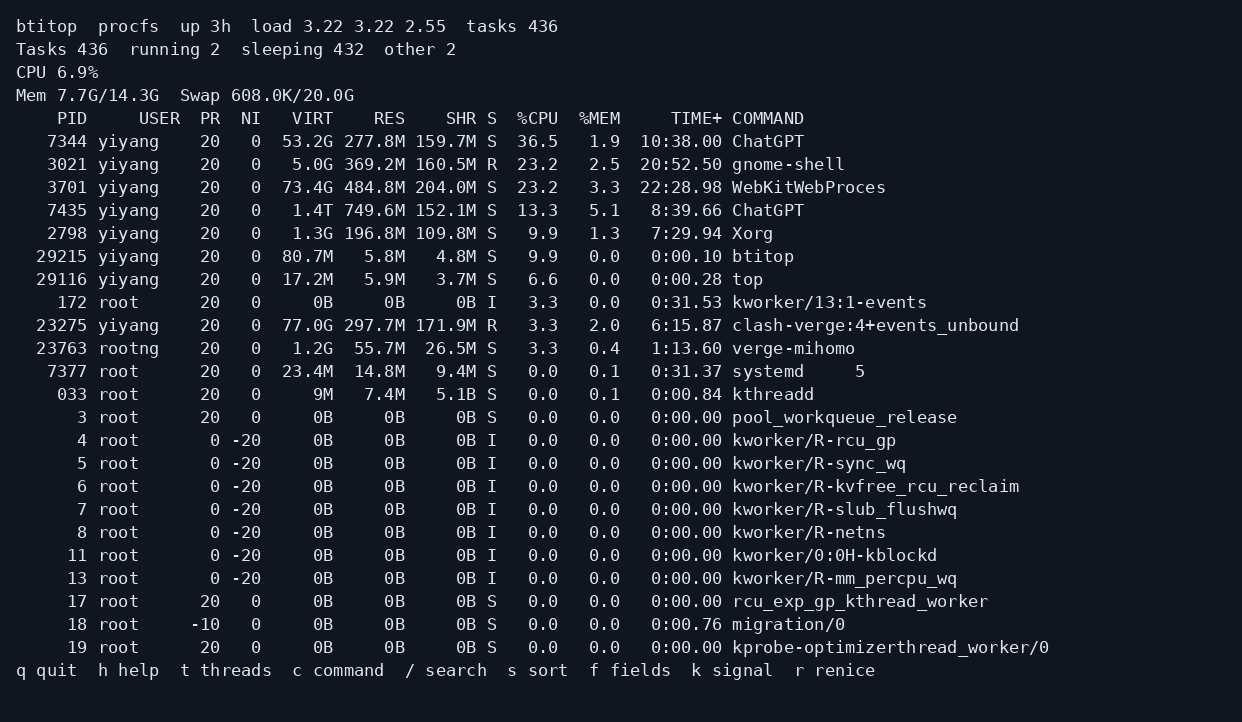
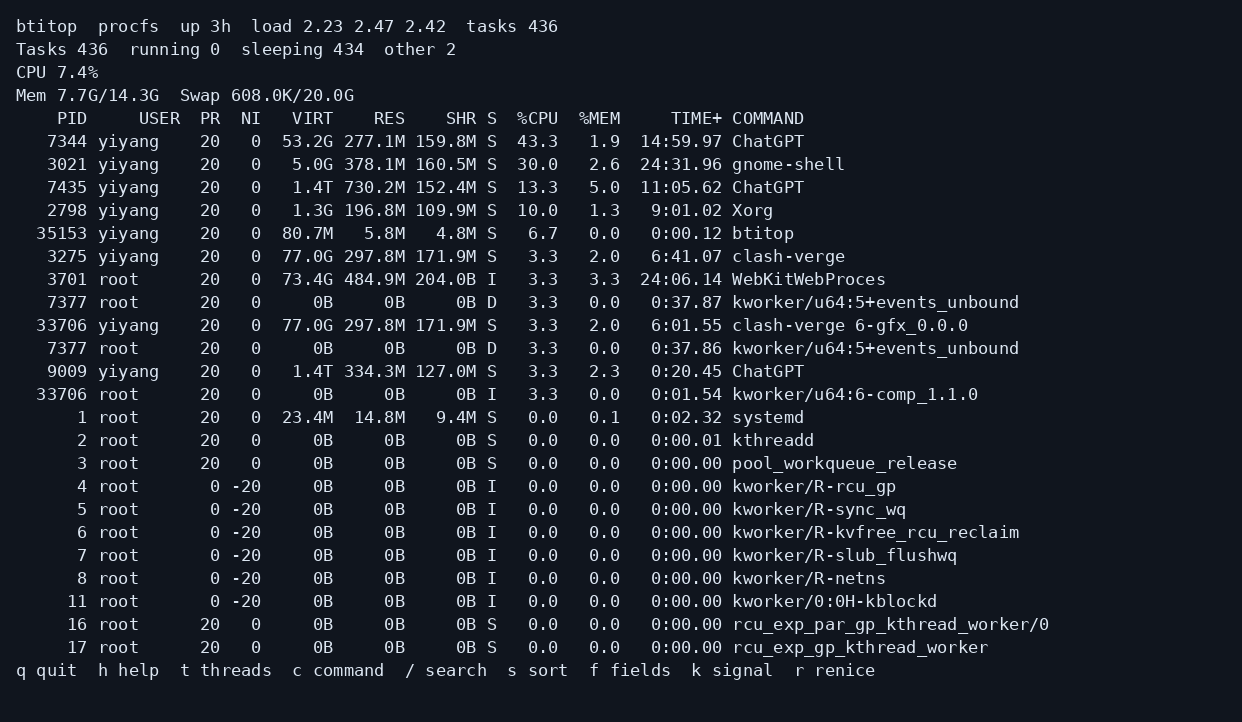
Avoid redundant TUI redraws and benchmark against top and htop

diff --git a/tools/compare_top.py b/tools/compare_top.py
@@ -1,0 +1,116 @@
+#!/usr/bin/env python3
+"""Compare btitop backends with procps top under temporary workloads.
+
+Run with BPF privileges, e.g. sudo python3 tools/compare_top.py --output /tmp/compare.json.
+All workload children are stopped in a finally block.
+"""
+import argparse
+import json
+import os
+import pathlib
+import statistics
+import subprocess
+import sys
+import tempfile
+import threading
+import time
+
+ROOT = pathlib.Path(__file__).resolve().parents[1]
+parser = argparse.ArgumentParser()
+parser.add_argument('--binary', type=pathlib.Path, default=ROOT / 'build/btitop')
+parser.add_argument('--iterations', type=int, default=15)
+parser.add_argument('--interval', type=float, default=0.1)
+parser.add_argument('--output', type=pathlib.Path)
+parser.add_argument('--cases', nargs='+', default=['baseline', 'sleep200', 'sleep500', 'threads128', 'threads128-H', 'busy4', 'churn'])
+args = parser.parse_args()
+if args.iterations < 3 or args.interval < 0.1:
+    parser.error('at least three iterations and 0.1s interval required')
+args.binary = args.binary.resolve()
+if not args.binary.exists():
+    parser.error(f'binary not found: {args.binary}')
+
+class Workload:
+    def __init__(self, case):
+        self.case = case
+        self.children = []
+        self.stop = threading.Event()
+        self.thread = None
+    def __enter__(self):
+        if self.case.startswith('sleep'):
+            for _ in range(int(self.case.removeprefix('sleep'))):
+                self.children.append(subprocess.Popen(['sleep', '120'], stdout=subprocess.DEVNULL, stderr=subprocess.DEVNULL))
+        elif self.case.startswith('threads'):
+            count = int(self.case.removeprefix('threads').split('-')[0])
+            code = 'import threading,time,sys\nthreads=[threading.Thread(target=time.sleep,args=(120,),daemon=True) for _ in range(int(sys.argv[1]))]\n[t.start() for t in threads]\ntime.sleep(120)'
+            self.children.append(subprocess.Popen([sys.executable, '-c', code, str(count)], stdout=subprocess.DEVNULL, stderr=subprocess.DEVNULL))
+        elif self.case.startswith('busy'):
+            for _ in range(int(self.case.removeprefix('busy'))):
+                self.children.append(subprocess.Popen(['yes'], stdout=subprocess.DEVNULL, stderr=subprocess.DEVNULL))
+        elif self.case == 'churn':
+            def churn():
+                while not self.stop.is_set():
+                    proc = subprocess.Popen(['sleep', '0.02'], stdout=subprocess.DEVNULL, stderr=subprocess.DEVNULL)
+                    proc.wait()
+            self.thread = threading.Thread(target=churn, daemon=True)
+            self.thread.start()
+        elif self.case != 'baseline':
+            raise ValueError(f'unknown case: {self.case}')
+        time.sleep(0.25)
+        return self
+    def __exit__(self, *_):
+        self.stop.set()
+        if self.thread:
+            self.thread.join(timeout=2)
+        for child in self.children:
+            if child.poll() is None:
+                child.terminate()
+        for child in self.children:
+            child.wait()
+
+def command(name, case, json_mode=False):
+    thread_mode = case.endswith('-H')
+    if name == 'top':
+        return ['top', '-b', '-n', str(args.iterations), '-d', str(args.interval), '-w', '120'] + (['-H'] if thread_mode else [])
+    cmd = [str(args.binary), '--backend', name, '--iterations', str(args.iterations), '--interval', str(args.interval)]
+    cmd += ['--json' if json_mode else '--batch']
+    if thread_mode:
+        cmd.append('--threads')
+    return cmd
+
+def timed(cmd, env):
+    with tempfile.TemporaryDirectory() as tmp:
+        metric = pathlib.Path(tmp) / 'metric'
+        result = subprocess.run(['/usr/bin/time', '-f', '%U %S %M %e', '-o', str(metric), *cmd],
+                                stdout=subprocess.DEVNULL, stderr=subprocess.PIPE, text=True, env=env, timeout=120)
+        if result.returncode:
+            raise RuntimeError(f'{cmd[0]} exited {result.returncode}: {result.stderr[-500:]}')
+        user, system, rss, wall = map(float, metric.read_text().split())
+        return {'cpu_seconds': round(user + system, 4), 'user_seconds': user,
+                'system_seconds': system, 'peak_rss_kib': int(rss), 'wall_seconds': wall}
+
+def latency(cmd, env):
+    result = subprocess.run(cmd, capture_output=True, text=True, env=env, timeout=120)
+    if result.returncode:
+        raise RuntimeError(result.stderr[-500:])
+    frames = [json.loads(line) for line in result.stdout.splitlines()]
+    ms = sorted((x['end_monotonic_ns'] - x['begin_monotonic_ns']) / 1e6 for x in frames)
+    return {'tasks_median': int(statistics.median(len(x['tasks']) for x in frames)),
+            'sample_ms_p50': round(statistics.median(ms), 3),
+            'sample_ms_p95': round(ms[min(len(ms) - 1, int((len(ms) - 1) * .95))], 3)}
+
+results = []
+env = dict(os.environ, XDG_CONFIG_HOME='/nonexistent/btitop-benchmark-config', LC_ALL='C')
+for case in args.cases:
+    print(f'CASE {case}', flush=True)
+    with Workload(case):
+        runs = {}
+        for name in ('bpf', 'procfs', 'top'):
+            runs[name] = timed(command(name, case), env)
+            if name != 'top':
+                runs[name].update(latency(command(name, case, True), env))
+            print(name, json.dumps(runs[name]), flush=True)
+        results.append({'case': case, 'runs': runs})
+if args.output:
+    args.output.parent.mkdir(parents=True, exist_ok=True)
+    args.output.write_text(json.dumps({'kernel': os.uname().release, 'iterations': args.iterations,
+                                       'interval_seconds': args.interval, 'results': results}, indent=2) + '\n')

diff --git a/tools/compare_interactive.py b/tools/compare_interactive.py
@@ -1,0 +1,92 @@
+#!/usr/bin/env python3
+"""Measure two real TUI sessions for the same wall time on a pseudo-terminal."""
+import argparse
+import fcntl
+import json
+import os
+import pathlib
+import pty
+import select
+import signal
+import struct
+import subprocess
+import tempfile
+import termios
+import time
+
+root = pathlib.Path(__file__).resolve().parents[1]
+p = argparse.ArgumentParser()
+p.add_argument('--seconds', type=float, default=10)
+p.add_argument('--interval', type=float, default=1)
+p.add_argument('--spawn', type=int, default=0)
+p.add_argument('--repeat', type=int, default=1)
+p.add_argument('--apps', nargs='+', choices=['btitop','top','htop'], default=['btitop','top'])
+p.add_argument('--output', type=pathlib.Path)
+args = p.parse_args()
+workload = []
+results = []
+
+def run(name):
+    master, slave = pty.openpty()
+    fcntl.ioctl(slave, termios.TIOCSWINSZ, struct.pack('HHHH', 30, 110, 0, 0))
+    env = dict(os.environ, TERM='xterm-256color', XDG_CONFIG_HOME='/nonexistent/btitop-benchmark-config', LC_ALL='C')
+    app = ([str(root/'build/btitop'), '--backend=bpf', '--interval', str(args.interval)]
+           if name == 'btitop' else
+           ['top', '-d', str(args.interval)] if name == 'top' else
+           ['htop', '-d', str(max(1, int(args.interval*10)))])
+    with tempfile.TemporaryDirectory() as tmp:
+        metric = pathlib.Path(tmp)/'time.txt'
+        cmd = ['/usr/bin/time', '-f', '%U %S %M %e', '-o', str(metric), *app]
+        def tty_setup():
+            os.setsid()
+            fcntl.ioctl(slave, termios.TIOCSCTTY, 0)
+        proc = subprocess.Popen(cmd, stdin=slave, stdout=slave, stderr=slave, env=env,
+                                preexec_fn=tty_setup, close_fds=True)
+        os.close(slave)
+        data_bytes = 0
+        started = time.monotonic()
+        deadline = started + args.seconds
+        try:
+            while time.monotonic() < deadline and proc.poll() is None:
+                ready, _, _ = select.select([master], [], [], 0.1)
+                if ready:
+                    try: data_bytes += len(os.read(master, 65536))
+                    except OSError: break
+            os.write(master, b'q')
+            proc.wait(timeout=3)
+            while True:
+                ready, _, _ = select.select([master], [], [], 0.02)
+                if not ready: break
+                try: data_bytes += len(os.read(master, 65536))
+                except OSError: break
+        finally:
+            if proc.poll() is None:
+                proc.terminate()
+                proc.wait(timeout=3)
+            os.close(master)
+        if proc.returncode:
+            raise RuntimeError(f'{name} exited {proc.returncode}')
+        user, system, peak_rss, elapsed = map(float, metric.read_text().split())
+        return {'app': name, 'seconds_requested': args.seconds, 'wall_seconds': elapsed,
+                'cpu_seconds': round(user+system,3), 'cpu_percent_one_core': round(100*(user+system)/elapsed,2),
+                'user_seconds': user, 'system_seconds': system, 'peak_rss_kib': int(peak_rss),
+                'terminal_bytes': data_bytes}
+
+try:
+    for _ in range(args.spawn):
+        workload.append(subprocess.Popen(['sleep','120'], stdout=subprocess.DEVNULL, stderr=subprocess.DEVNULL))
+    for repeat in range(args.repeat):
+        for name in (args.apps if repeat%2 == 0 else list(reversed(args.apps))):
+            value = run(name)
+            value['extra_tasks'] = args.spawn
+            value['repeat'] = repeat
+            results.append(value)
+            print(json.dumps(value), flush=True)
+finally:
+    for child in workload:
+        child.terminate()
+    for child in workload:
+        child.wait()
+if args.output:
+    args.output.parent.mkdir(parents=True, exist_ok=True)
+    args.output.write_text(json.dumps(results, indent=2)+'\n')

diff --git a/src/ui.cpp b/src/ui.cpp
@@ -366,7 +366,7 @@ void run_ui(UiOptions opt, std::function<std::optional<Snapshot>()> latest,
         use_default_colors();
     }
     Snapshot s;
-    bool have = false, help = false;
+    bool have = false, help = false, dirty = true;
     size_t cursor = 0;
     std::string status;
     std::unordered_map<Identity, std::string, IdentityHash> commands;
@@ -375,11 +375,12 @@ void run_ui(UiOptions opt, std::function<std::optional<Snapshot>()> latest,
             if (auto n = latest()) {
                 s = std::move(*n);
                 have = true;
+                dirty = true;
                 status = s.diagnostic;
                 if (commands.size() > 512)
                     commands.clear();
             }
-            if (have) {
+            if (dirty && have) {
                 auto ids = select(s.tasks, opt.query);
                 if (cursor >= ids.size())
                     cursor = ids.empty() ? 0 : ids.size() - 1;
@@ -409,10 +410,11 @@ void run_ui(UiOptions opt, std::function<std::optional<Snapshot>()> latest,
                     put(4, 0, "k send signal | r renice | Enter details | h close help", COLS);
                     refresh();
                 }
-            } else {
+            } else if (dirty) {
                 put(0, 0, "btitop: collecting initial snapshot...", COLS);
                 refresh();
             }
+            dirty = false;
             int c = getch();
             if (c == ERR) {
                 napms(75);
@@ -420,6 +422,7 @@ void run_ui(UiOptions opt, std::function<std::optional<Snapshot>()> latest,
             }
             if (c == 'q')
                 break;
+            dirty = true;
             if (c == 'h') {
                 help = !help;
                 continue;

diff --git a/docs/comparison.md b/docs/comparison.md
@@ -1,0 +1,46 @@
+# btitop, top, and htop: scenario comparison
+
+Measured on 2026-09-28, Linux `7.0.0-taskstats+`, 16 logical CPUs, procps top `4.0.4-4ubuntu3.2`, htop `3.3.0`. All monitors ran as root so btitop could load BPF. Extra workloads were stopped after each case. CPU seconds are process user+system time; `% of one CPU` is CPU seconds divided by wall seconds. A few tenths of a second can vary with system activity, so treat small differences as inconclusive.
+
+## What each tool enumerates
+
+- Default top calls `procps_pids_reap(..., PIDS_FETCH_TASKS_ONLY)` and reads all visible process leaders; `top -H` uses `PIDS_FETCH_THREADS_TOO`. It sorts the collected tasks and displays only rows that fit the terminal. Batch output confirmed similar row counts to btitop (441 vs 446 process lines, 1944 vs 1947 thread lines including headers and task churn).
+- htop's Linux process-table scan enumerates `/proc`, then recurses into each process's `task` directory. Hiding threads affects display, not this scan. Source checked at htop commit `bb3ee0a`, `linux/LinuxProcessTable.c`.
+- btitop's `iter/task` BPF program visits kernel tasks, including threads. Process view groups them before display; `--threads` displays separate tasks.
+
+## Batch mode: 12 frames at 100ms
+
+Output was redirected to `/dev/null`; btitop and top each rendered their regular batch text. btitop sample p50 was measured in a separate JSON run under the same workload. The three programs ran sequentially, so tasks can vary slightly.
+
+| Workload | Task rows, median | btitop BPF CPU s | top CPU s | btitop procfs CPU s | BPF sample p50 ms | procfs sample p50 ms |
+| --- | ---: | ---: | ---: | ---: | ---: | ---: |
+| Baseline | 435 | 0.09 | 0.15 | 0.24 | 3.41 | 13.67 |
+| +200 sleeping processes | 635 | 0.15 | 0.17 | 0.32 | 3.63 | 20.11 |
+| +500 sleeping processes | 936 | 0.17 | 0.26 | 0.47 | 4.43 | 28.62 |
+| +128 sleeping threads, process view | 436 | 0.10 | 0.16 | 0.26 | 3.15 | 20.33 |
+| +128 sleeping threads, thread view | 2068 | 0.35 | 0.54 | 0.99 | 3.09 | 60.56 |
+| 4 CPU-busy processes | 440 | 0.09 | 0.12 | 0.22 | 2.79 | 14.88 |
+| Rapid short-process creation | 436 | 0.10 | 0.11 | 0.22 | 3.00 | 14.54 |
+
+A longer 30-frame check gave CPU seconds: baseline **0.30 / 0.37 / 0.71**, +500 sleepers **0.50 / 0.59 / 1.13**, and thread view **0.60 / 1.34 / 2.43** for btitop BPF / top / btitop procfs respectively. The small busy/churn differences in the short run are not enough to claim a stable lead.
+
+## Interactive mode: 8 seconds, 1-second refresh
+
+A 110×30 pseudo-terminal was used for each real TUI session. Before the UI fix, btitop sorted and formatted the entire table every 75ms despite sampling once per second: two repeats each used **0.15 CPU seconds**, while top used **0.10**. Redrawing only for new samples, keys, or resize reduced btitop to **0.07 CPU seconds** in two repeats; top used **0.08** in those repeats.
+
+| Workload | btitop BPF CPU s | top CPU s | htop CPU s | btitop peak RSS KiB | top peak RSS KiB | htop peak RSS KiB |
+| --- | ---: | ---: | ---: | ---: | ---: | ---: |
+| Baseline, about 440 processes | 0.06 | 0.10 | 1.36 | 19,108 | 5,464 | 6,888 |
+| +500 sleeping processes | 0.08 | 0.21 | 1.64 | 18,904 | 5,280 | 7,772 |
+
+The interactive programs use different layouts and emit different numbers of terminal bytes. These measurements establish observed whole-program cost, not a normalized per-field comparison. btitop has lower CPU cost here but uses roughly 19 MiB peak RSS, versus roughly 5–8 MiB for top and htop. htop's larger cost is consistent with its per-thread procfs scan, though this experiment does not isolate that as the only cause.
+
+## Reproduce
+
+```sh
+cmake -S . -B build -G Ninja && cmake --build build
+sudo python3 tools/compare_top.py --iterations 12 --interval 0.1 --output /tmp/scenarios.json
+sudo python3 tools/compare_interactive.py --seconds 8 --interval 1 --apps btitop top htop
+```
+
+Raw results are stored separately with this report. The tests did not cover 10,000 tasks, other kernels, different terminal sizes, or long-running memory behavior. They do not prove btitop will always use less CPU than top; the initial TUI implementation demonstrably used more, and the fix was measured afterward.

diff --git a/README.md b/README.md
@@ -40,6 +40,6 @@ The BPF sampling path does not scan per-task procfs files. The TUI reads `/proc/
 
 ## Performance and architecture
 
-[Architecture](docs/architecture.md) describes the data flow. [Benchmarks](docs/benchmarks.md) records reproducible measurements and perf findings. The included `tools/benchmark.py` can compare both collection backends under a chosen task count; it does not modify system settings. Run it with permissions sufficient for BPF loading.
+[Architecture](docs/architecture.md) describes the data flow. [Benchmarks](docs/benchmarks.md) records reproducible measurements and perf findings. [Scenario comparison](docs/comparison.md) compares btitop with top and htop. The included `tools/benchmark.py` can compare both collection backends under a chosen task count; it does not modify system settings. Run it with permissions sufficient for BPF loading.
 
 Current builds target x86-64 and arm64 Linux. The BPF program is built against the current kernel's BTF and uses CO-RE relocations. Linux 6.6 and 6.12 compatibility remains to be verified on those kernels; a successful build on this host does not establish that compatibility.

diff --git a/README.zh-CN.md b/README.zh-CN.md
@@ -33,4 +33,4 @@ sudo ./build/btitop --backend=bpf --threads
 
 首轮 `%CPU` 显示 `N/A`。默认按 top 的 Irix 模式显示，多线程进程可超过 100%；`I` 切换为按 CPU 数归一化。BPF 的累计 CPU 值和 RSS/SHR 与 procfs 可能有小幅差异，原因与具体字段见[字段矩阵](docs/fields.md)。BPF 周期采集不扫描每任务 procfs；开启命令行显示后，只按需读取可见任务。采样间隔内出现又退出的短命任务可能被遗漏。
 
-[架构说明](docs/architecture.md)和[性能基准](docs/benchmarks.md)包含接口、测试方法与本机结果。当前在定制 Linux 7.0 内核上验证；标准 6.6、6.12 内核仍需各自验证。
+[架构说明](docs/architecture.md)和[性能基准](docs/benchmarks.md)包含接口、测试方法与本机结果；[场景对比](docs/comparison.md)记录了与 top、htop 的实测。当前在定制 Linux 7.0 内核上验证；标准 6.6、6.12 内核仍需各自验证。
